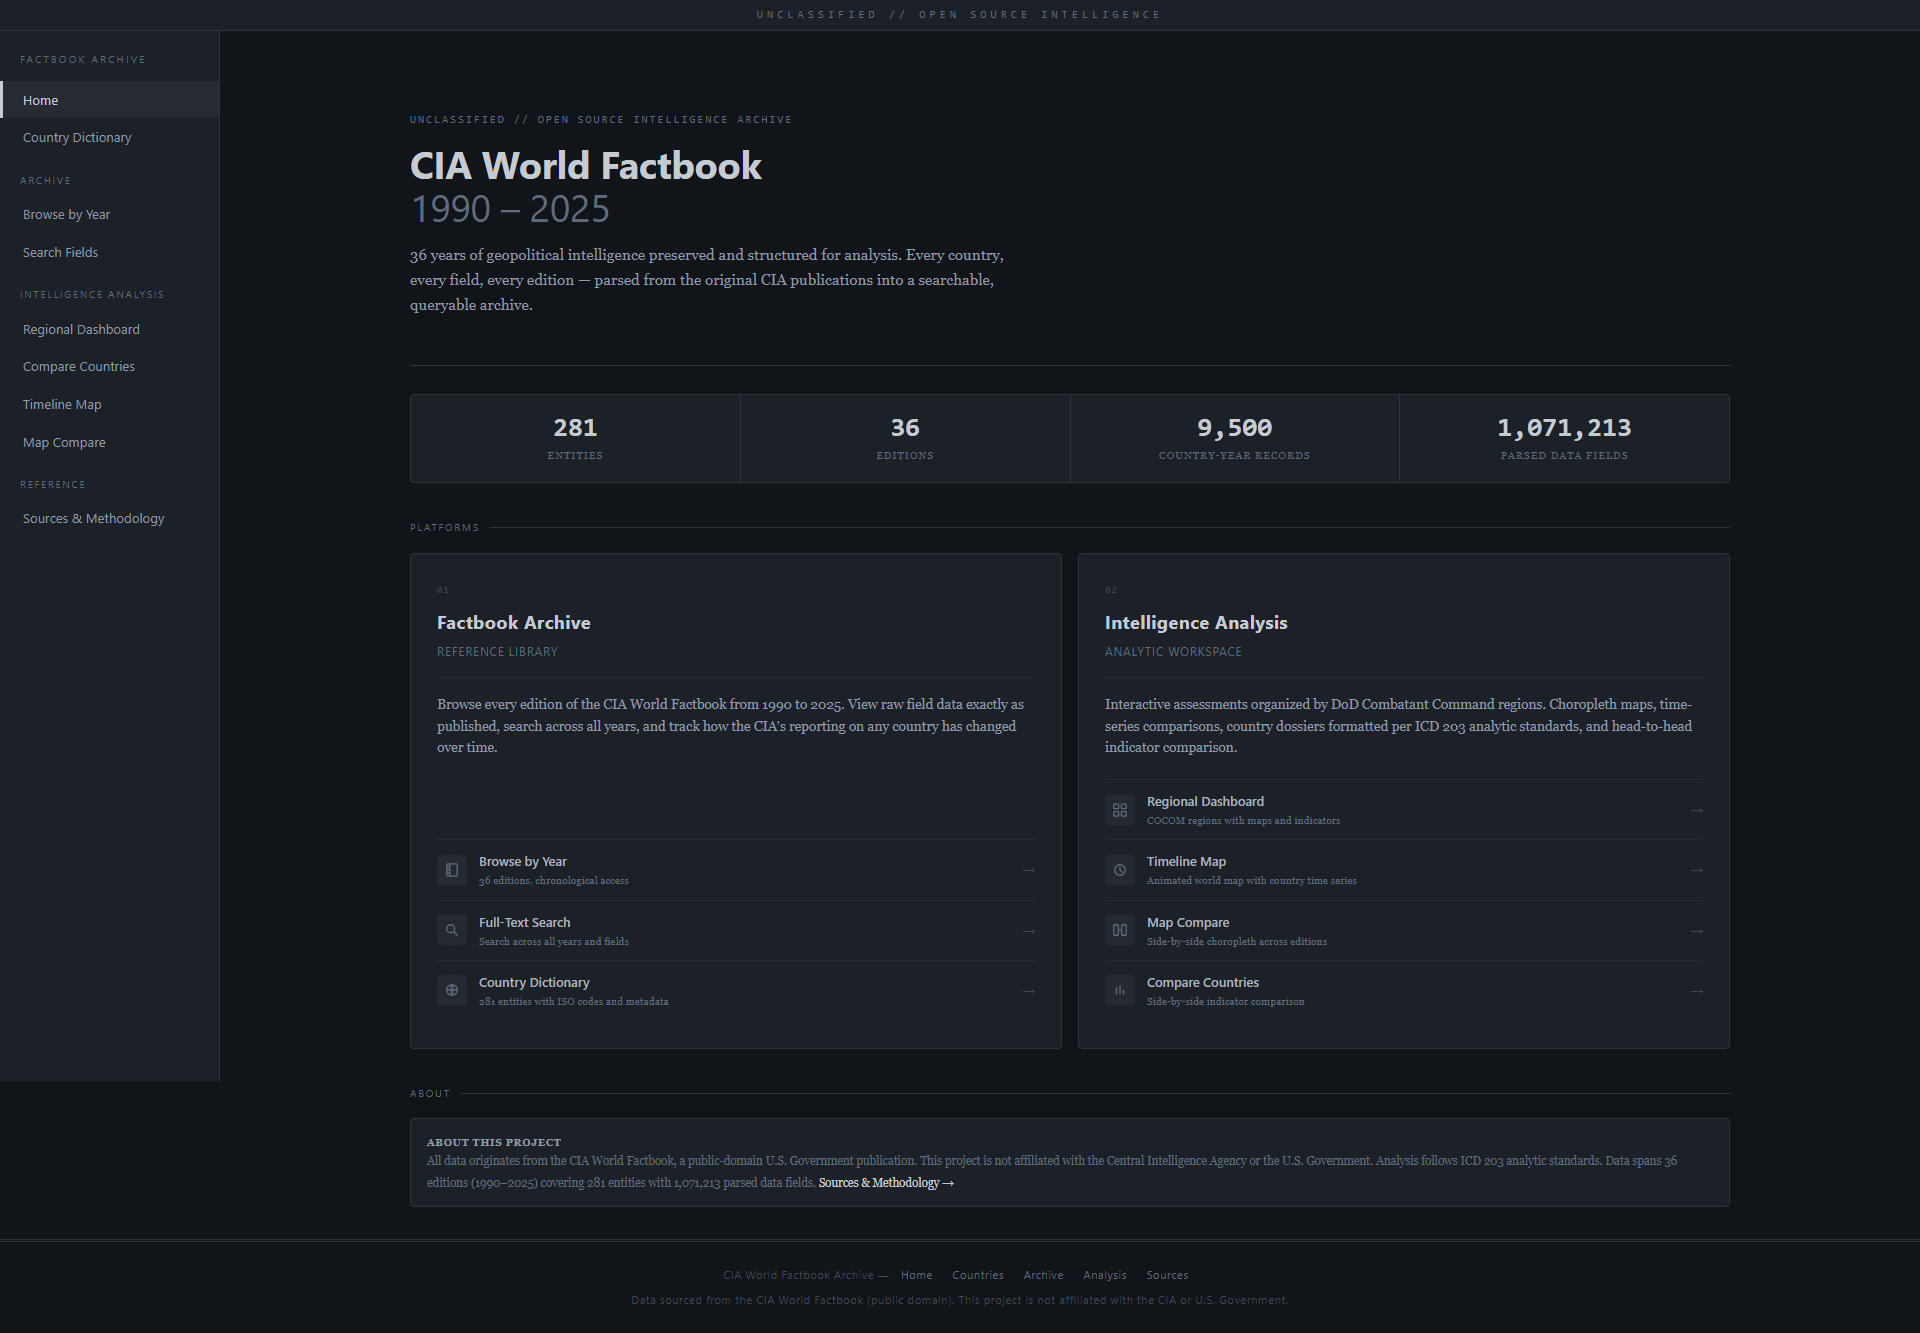
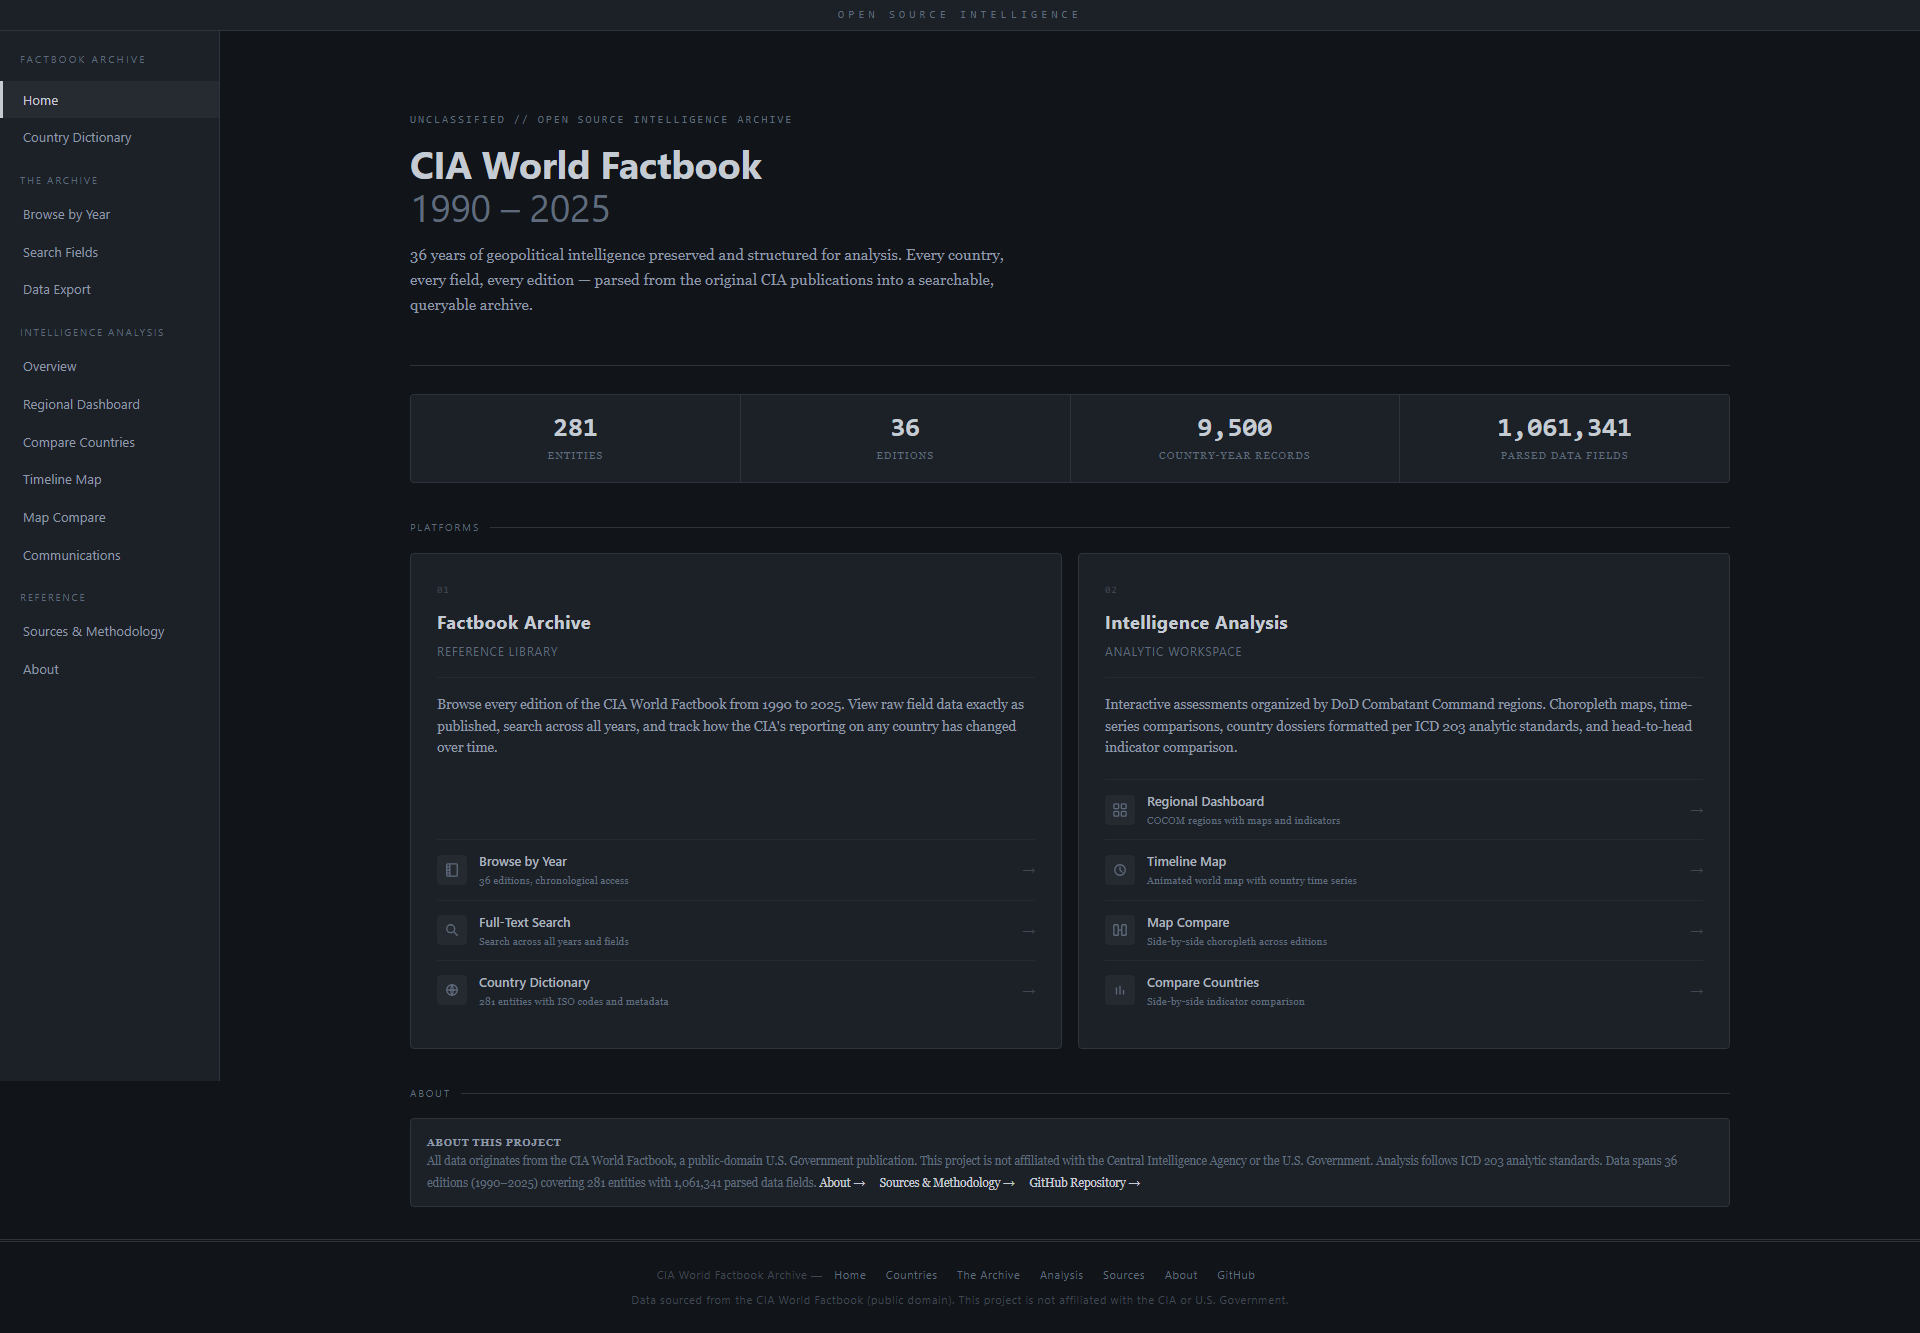
Update screenshots and README for new features
Recaptured all 18 screenshots reflecting current webapp state:
communications dashboard, timeline map, map compare, region detail,
threat briefs, about page redesign, neutral confidence badges.
README screenshot section reorganized into Search & Browse, The Archive,
and Intelligence Analysis subsections.

diff --git a/README.md b/README.md
@@ -240,16 +240,38 @@ See [queries/sample_queries.sql](queries/sample_queries.sql) for 18 ready-to-use
 - Consolidated petroleum sub-field view
 
 ## Screenshots
+
+### Search & Browse
 | | |
 |---|---|
-| ![Homepage](docs/screenshots/homepage.png) | ![Search Results](docs/screenshots/search_results.png) |
-| **Homepage** — Database statistics and navigation | **Full-Text Search** — Keyword search across 1M+ fields |
-| ![Field Time Series](docs/screenshots/field_timeseries.png) | ![Factbook Export](docs/screenshots/country_export.png) |
-| **Field Time Series** — Track any field across 36 years | **Factbook Export** — Print-ready report with parsed fields |
-| ![Boolean Search](docs/screenshots/search_boolean.png) | ![Country Profile](docs/screenshots/country_profile.png) |
-| **Boolean Search** — Exact phrase + AND/OR/NOT operators | **Country Profile** — Complete field data by category |
-| ![Regional Dashboard](docs/screenshots/regional_dashboard.png) | ![Intelligence Dossier](docs/screenshots/dossier.png) |
-| **Regional Dashboard** — EUCOM region with GDP choropleth | **Intelligence Dossier** — Assessments per ICD 203 standards |
+| ![Homepage](docs/screenshots/homepage.png) | ![About](docs/screenshots/about.png) |
+| **Homepage** — Database statistics, navigation, and live search | **About** — Project mission, architecture, and methodology |
+| ![Full-Text Search](docs/screenshots/search_results.png) | ![Boolean Search](docs/screenshots/search_boolean.png) |
+| **Full-Text Search** — Keyword search across 1,071,213 fields | **Boolean Search** — AND/OR/NOT operators with phrase matching |
+
+### The Archive
+| | |
+|---|---|
+| ![Browse Years](docs/screenshots/browse_years.png) | ![Country Profile](docs/screenshots/country_profile.png) |
+| **Browse Archive** — Navigate all 281 entities across 36 years | **Country Profile** — Complete factbook data by category |
+| ![Field Time Series](docs/screenshots/field_timeseries.png) | ![Data Export](docs/screenshots/country_export.png) |
+| **Field Time Series** — Track any field across 36 years with Plotly charts | **Data Export** — CSV, Excel, and print-ready PDF reports |
+| ![Country Dictionary](docs/screenshots/country_dictionary.png) | |
+| **Country Dictionary** — All 281 entities with type, region, and ISO codes | |
+
+### Intelligence Analysis
+| | |
+|---|---|
+| ![Analysis Overview](docs/screenshots/analysis_overview.png) | ![Regional Dashboard](docs/screenshots/regional_dashboard.png) |
+| **Analysis Overview** — Available dashboards and analytical products | **Regional Dashboard** — Global choropleth with COCOM region drill-down |
+| ![Region Detail](docs/screenshots/region_eucom.png) | ![Compare Countries](docs/screenshots/compare_countries.png) |
+| **COCOM Region Detail** — Country-level KPIs within a command region | **Compare Countries** — Side-by-side comparison of any two nations |
+| ![Timeline Map](docs/screenshots/timeline_map.png) | ![Map Compare](docs/screenshots/map_compare.png) |
+| **Timeline Map** — Animated choropleth 1990-2025 with multi-country time series | **Map Compare** — Side-by-side world maps across two different years |
+| ![Communications](docs/screenshots/communications.png) | ![Intelligence Dossier](docs/screenshots/dossier.png) |
+| **Communications Analysis** — Internet, mobile, broadband with digital divide analysis | **Intelligence Dossier** — Per-country assessment following ICD 203 standards |
+| ![Threat Brief](docs/screenshots/threats.png) | |
+| **Regional Threat Brief** — COCOM-level instability and security indicators | |
 
 
 
